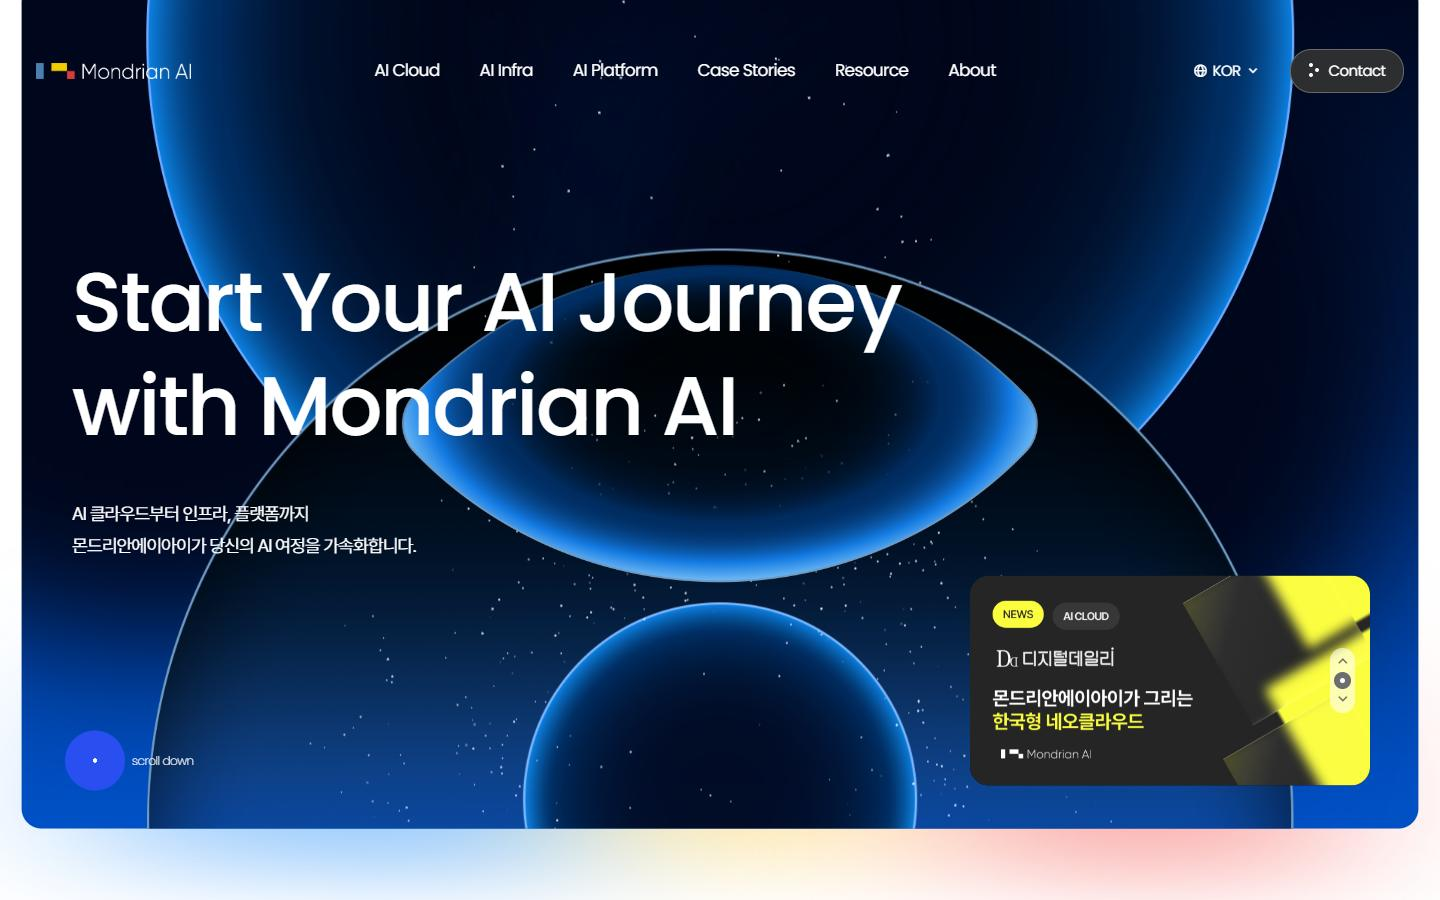
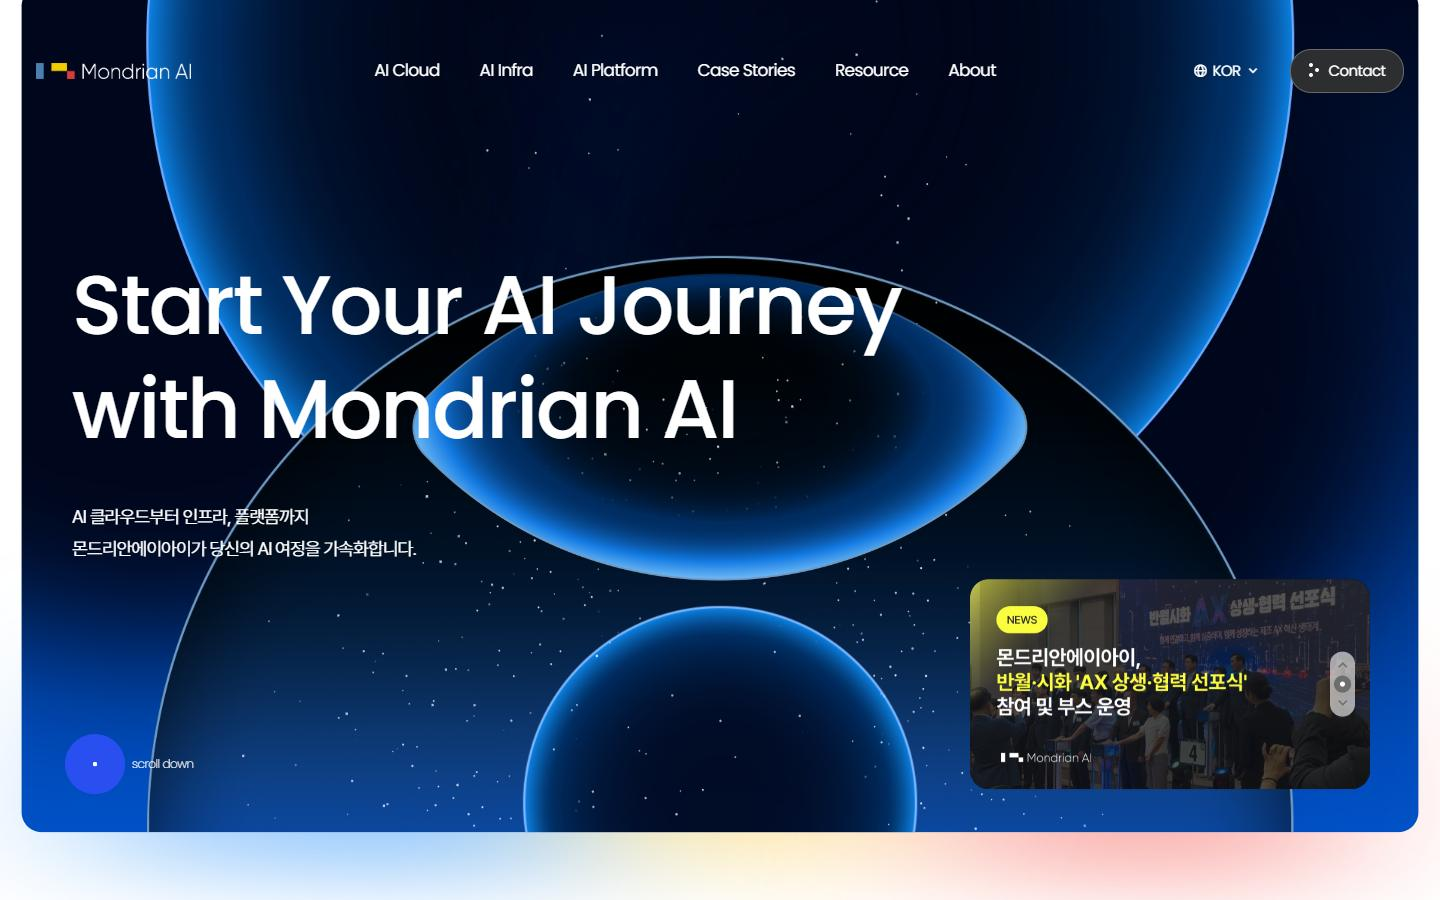
fix: wait for thumbnail hero content

diff --git a/docs/app.js b/docs/app.js
@@ -163,7 +163,10 @@ function createCard(item) {
     image.width = 96;
     image.height = 64;
     image.addEventListener("error", () => thumbnail.remove(), { once: true });
-    image.src = item.thumbnail_url;
+    const thumbnailVersion = item.thumbnail_attempted_at
+      ? `?v=${encodeURIComponent(item.thumbnail_attempted_at)}`
+      : "";
+    image.src = `${item.thumbnail_url}${thumbnailVersion}`;
     thumbnail.append(image);
     identity.append(thumbnail);
   }

diff --git a/src/gdweb_daily/thumbnails.py b/src/gdweb_daily/thumbnails.py
@@ -17,6 +17,7 @@ TRACKER_HOST_PARTS = (
     "hotjar.com",
     "clarity.ms",
 )
+CAPTURE_STABILIZE_MS = 3_000
 
 
 def _item_key(item: dict[str, object]) -> str:
@@ -95,7 +96,7 @@ def _thumbnail_name(item: dict[str, object]) -> str:
 def _route_request(route: Any) -> None:
     request = route.request
     url = request.url.lower()
-    if request.resource_type == "media" or any(part in url for part in TRACKER_HOST_PARTS):
+    if any(part in url for part in TRACKER_HOST_PARTS):
         route.abort()
         return
     route.continue_()
@@ -137,7 +138,8 @@ def _capture_page(page: Any, url: str, output_path: Path) -> str:
         }
         """
     )
-    page.wait_for_timeout(1_500)
+    # Give lazy hero images, fonts, and client-rendered content time to settle.
+    page.wait_for_timeout(CAPTURE_STABILIZE_MS)
     page.evaluate(
         """
         () => {

diff --git a/README.md b/README.md
@@ -102,7 +102,7 @@ $env:THUMBNAIL_BROWSER_CHANNEL = "msedge"
 .\.venv\Scripts\python -m gdweb_daily.thumbnails --limit 10
 ```
 
-GitHub Actions에서는 설치된 Chrome으로 같은 작업을 수행합니다. 사이트별 제한시간과 실패를 격리하고, 영상·분석 요청을 차단하며 첫 화면만 JPEG로 저장합니다. 실패 정보는 `thumbnail_status`와 `thumbnail_error`에 남고 수집 및 Notion 등록 결과에는 영향을 주지 않습니다.
+GitHub Actions에서는 설치된 Chrome으로 같은 작업을 수행합니다. 사이트별 제한시간과 실패를 격리하고, 추적·분석 요청은 차단하되 첫 화면 영상은 허용하며 페이지 진입 후 3초 동안 안정화를 기다린 뒤 JPEG로 저장합니다. 실패 정보는 `thumbnail_status`와 `thumbnail_error`에 남고 수집 및 Notion 등록 결과에는 영향을 주지 않습니다.
 
 ## 최근 업데이트 — 2026-08-09
 
